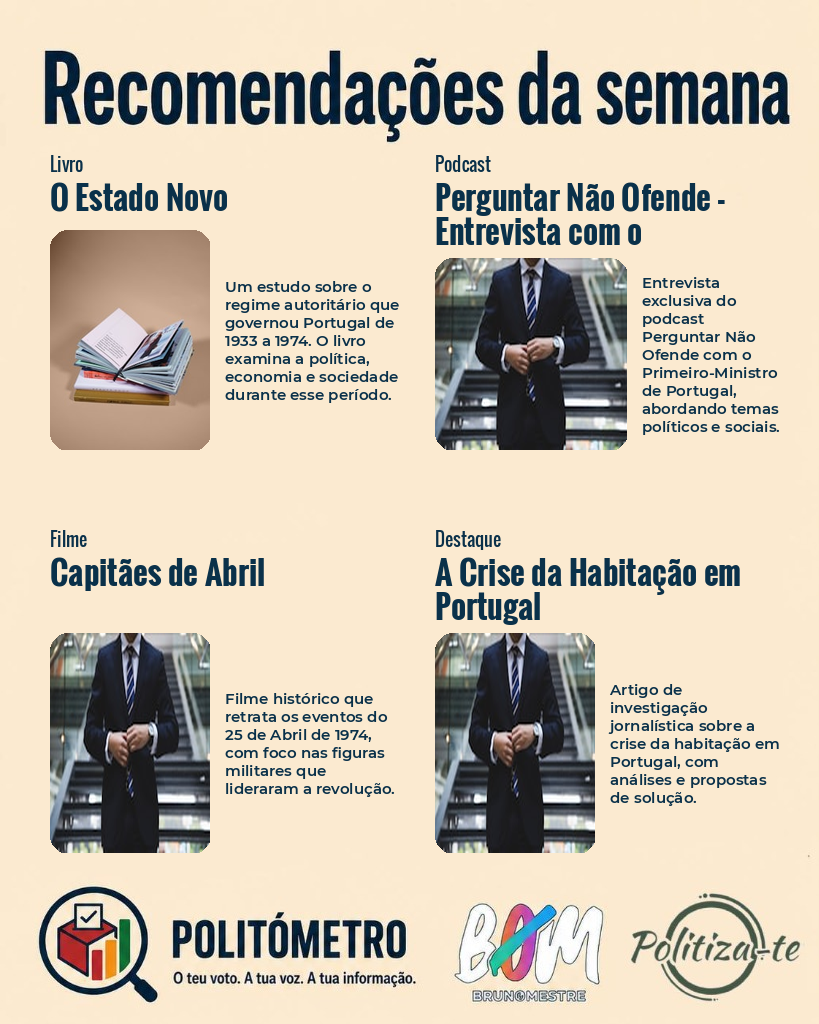
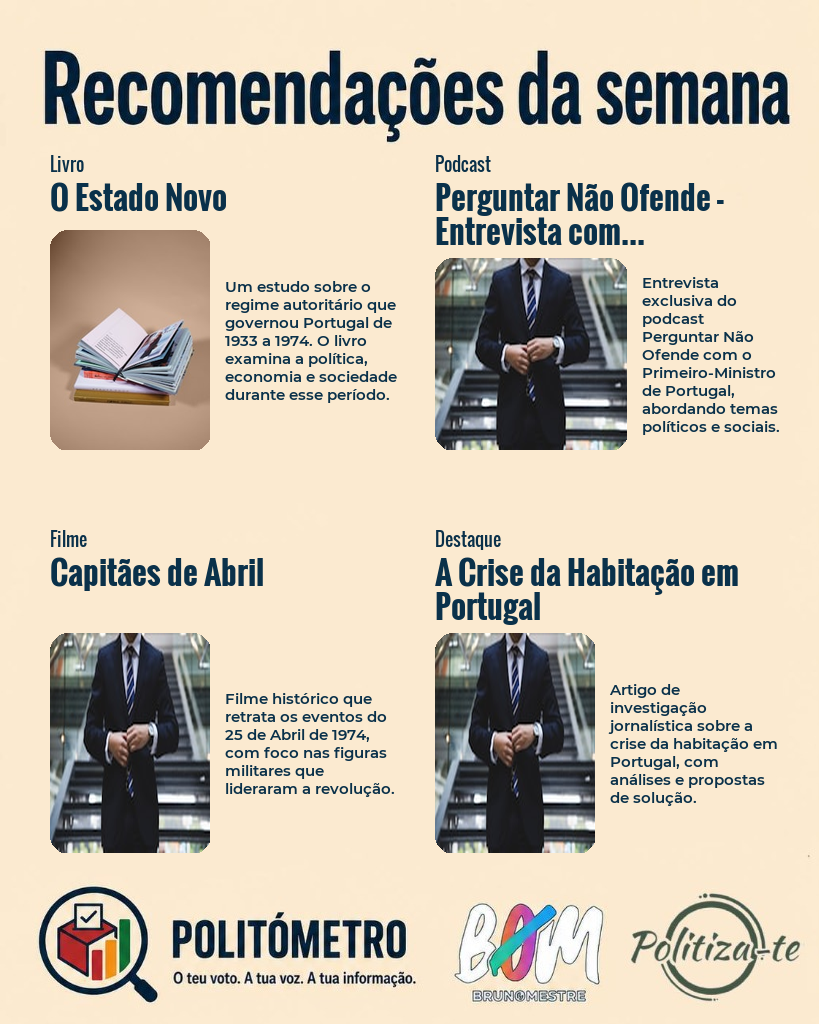
Correção links

diff --git a/scripts/generate_post.py b/scripts/generate_post.py
@@ -200,19 +200,21 @@ def get_recommendations_with_valid_covers(queue):
     for idx, item in enumerate(selected_others):
         selected[f"q{idx+1}"] = item
 
-    # Auto-resolve podcast episode links to avoid using generic show pages
+    # Auto-resolve correct links for all selected items to avoid hallucinated/patterned URLs
     for qkey in ["q1", "q2", "q3", "q4"]:
         item = selected.get(qkey)
-        if item and item.get("type") == "podcast":
-            title = item["title"]
-            author = item.get("authorOrMeta", "")
-            clean_author = re.sub(r'^(Filme|S[eé]rie|Document[aá]rio|Podcast)\s*/\s*', '', author).strip()
+        if not item:
+            continue
+            
+        title = item["title"]
+        itype = item["type"]
+        author = item.get("authorOrMeta", "")
+        clean_author = re.sub(r'^(Filme|S[eé]rie|Document[aá]rio|Podcast)\s*/\s*', '', author).strip()
+        
+        resolved = False
+        if itype == "podcast":
             query = f"episódio {title} {clean_author}"
-            
-            print(f"[Link Resolver] Attempting to automatically resolve specific episode link for podcast '{title}'...")
-            
-            # 1. Try iTunes Search API specifically for episode entity
-            resolved = False
+            # Try iTunes Search API first for podcasts
             try:
                 itunes_url = f"https://itunes.apple.com/search?term={urllib.parse.quote(query)}&media=podcast&entity=podcastEpisode&limit=1"
                 r = requests.get(itunes_url, timeout=5)
@@ -221,25 +223,30 @@ def get_recommendations_with_valid_covers(queue):
                     if results:
                         ep_link = results[0].get("trackViewUrl")
                         if ep_link:
-                            print(f"  -> Automatically resolved podcast episode link via iTunes: {ep_link}")
+                            print(f"[Link Resolver] Automatically resolved podcast episode link via iTunes: {ep_link}")
                             item["link"] = ep_link
                             resolved = True
             except Exception as e:
                 print(f"  -> iTunes episode check failed: {e}")
+        else:
+            if itype == "book":
+                query = f"site:wook.pt OR site:fnac.pt livro {title} {clean_author}"
+            elif itype in ["movie", "documentary", "series"]:
+                query = f"site:imdb.com OR site:rtp.pt {title} {clean_author}"
+            else:
+                query = f"{title} {clean_author}"
                 
-            # 2. Fallback: DuckDuckGo search
-            if not resolved:
-                try:
-                    found_url = search_duckduckgo_link(query)
-                    if found_url:
-                        print(f"  -> Automatically resolved podcast episode link via DDG: {found_url}")
-                        item["link"] = found_url
-                        resolved = True
-                except Exception as e:
-                    print(f"  -> DDG episode check failed: {e}")
-                    
-            if not resolved:
-                print(f"  -> Could not resolve specific episode URL for '{title}'. Keeping original link.")
+        if not resolved:
+            print(f"[Link Resolver] Searching DuckDuckGo for real link of '{title}' (type: {itype})...")
+            try:
+                found_url = search_duckduckgo_link(query)
+                if found_url:
+                    print(f"  -> Successfully resolved real link: {found_url}")
+                    item["link"] = found_url
+                else:
+                    print(f"  -> No link found on DDG. Keeping original link: {item['link']}")
+            except Exception as e:
+                print(f"  -> DDG link search failed: {e}. Keeping original link.")
         
     return selected, covers
 
@@ -410,11 +417,19 @@ def generate_production_post():
         # Wrap title
         tx, ty = config["title_pos"]
         lines = wrap_text(draw, item["title"], title_font, 350)
+        if len(lines) > 2:
+            lines = lines[:2]
+            # Truncate the second line to add '...'
+            words = lines[1].split()
+            if len(words) > 1:
+                lines[1] = " ".join(words[:-1]) + "..."
+            else:
+                lines[1] += "..."
         title_lines_map[qkey] = lines
         
         # Draw title
         curr_y = ty
-        for line in lines[:2]:
+        for line in lines:
             draw.text((tx, curr_y), line, fill=TEXT_COLOR, font=title_font)
             curr_y += 34
         

diff --git a/scripts/cover_fetcher.py b/scripts/cover_fetcher.py
@@ -208,8 +208,31 @@ def _search_omdb(title, year=None):
         pass
     return None
 
-# ===================== MAIN FETCH LOGIC =====================
-def fetch_cover(title, media_type, author_or_meta=None, image_url_hint=None, category=None, allow_placeholder=False):
+# ===================== MAIN FETCH LOGIC ===============def _scrape_og_image(url):
+    """Fetch the page and extract og:image tag content."""
+    try:
+        r = requests.get(url, headers=HEADERS_BROWSER, timeout=10, allow_redirects=True)
+        if r.status_code == 200:
+            match = re.search(r'<meta\s+property=["\']og:image["\']\s+content=["\']([^"\']+)["\']', r.text, re.IGNORECASE)
+            if not match:
+                match = re.search(r'<meta\s+name=["\']twitter:image["\']\s+content=["\']([^"\']+)["\']', r.text, re.IGNORECASE)
+            if not match:
+                match = re.search(r'<meta\s+content=["\']([^"\']+)["\']\s+property=["\']og:image["\']', r.text, re.IGNORECASE)
+            
+            if match:
+                img_url = match.group(1).strip()
+                if img_url.startswith("//"):
+                    img_url = "https:" + img_url
+                elif img_url.startswith("/"):
+                    from urllib.parse import urljoin
+                    img_url = urljoin(url, img_url)
+                if "no-image" not in img_url.lower() and "dummy" not in img_url.lower():
+                    return img_url
+    except Exception as e:
+        print(f"      [Scrape og:image Error] {e}")
+    return None
+
+def fetch_cover(title, media_type, author_or_meta=None, image_url_hint=None, category=None, allow_placeholder=False, link=None):
     """
     Fetch the best cover image for a recommendation.
     
@@ -221,7 +244,21 @@ def fetch_cover(title, media_type, author_or_meta=None, image_url_hint=None, cat
         print(f"    [CACHE] {title}")
         return Image.open(cached).convert("RGBA")
     
-    # 1.5. If image_url_hint is provided, try resolving it first to ensure correct cover
+    # 1.3. Try extracting og:image from the recommendation link first to avoid fallbacks
+    if link:
+        print(f"    [Link Scraping] Trying to extract og:image from recommendation link: {link}")
+        og_image_url = _scrape_og_image(link)
+        if og_image_url:
+            print(f"      [Found og:image] {og_image_url}")
+            img, raw = _download_image(og_image_url)
+            if img:
+                _save_to_cache(raw, title, media_type)
+                print(f"    [OK - Link Scraping] {title}")
+                return img.convert("RGBA")
+            else:
+                print(f"      [Link Scraping Image Download Failed] Falling back...")
+    
+    # 1.5. If image_url_hint is provided, try resolving it next
     if image_url_hint:
         print(f"    [Hint Search] Trying hint URL for '{title}': {image_url_hint}")
         img, raw = _download_image(image_url_hint)
@@ -331,8 +368,6 @@ def generate_placeholder(title, width=180, height=240, bg_color=(220, 215, 205),
     
     return img
 
-
-
 def fetch_cover_for_item(item, allow_placeholder=False):
     """Convenience wrapper: fetch cover for a recommendation dict."""
     return fetch_cover(
@@ -341,5 +376,6 @@ def fetch_cover_for_item(item, allow_placeholder=False):
         author_or_meta=item.get("authorOrMeta"),
         image_url_hint=item.get("imageUrl"),
         category=item.get("category"),
-        allow_placeholder=allow_placeholder
+        allow_placeholder=allow_placeholder,
+        link=item.get("link")
     )